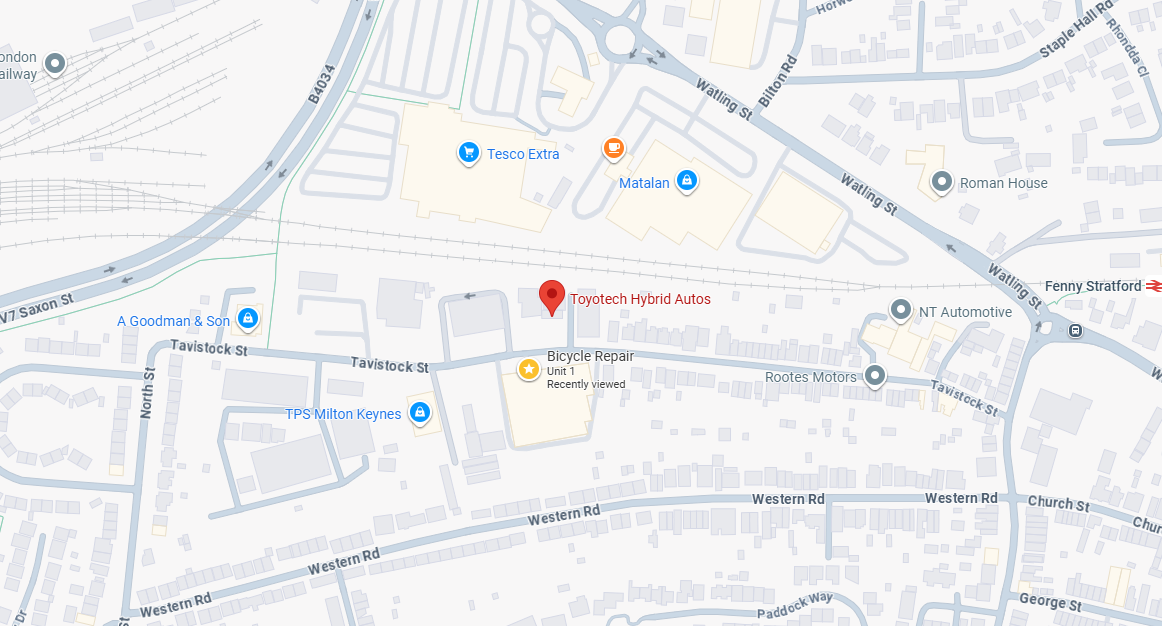
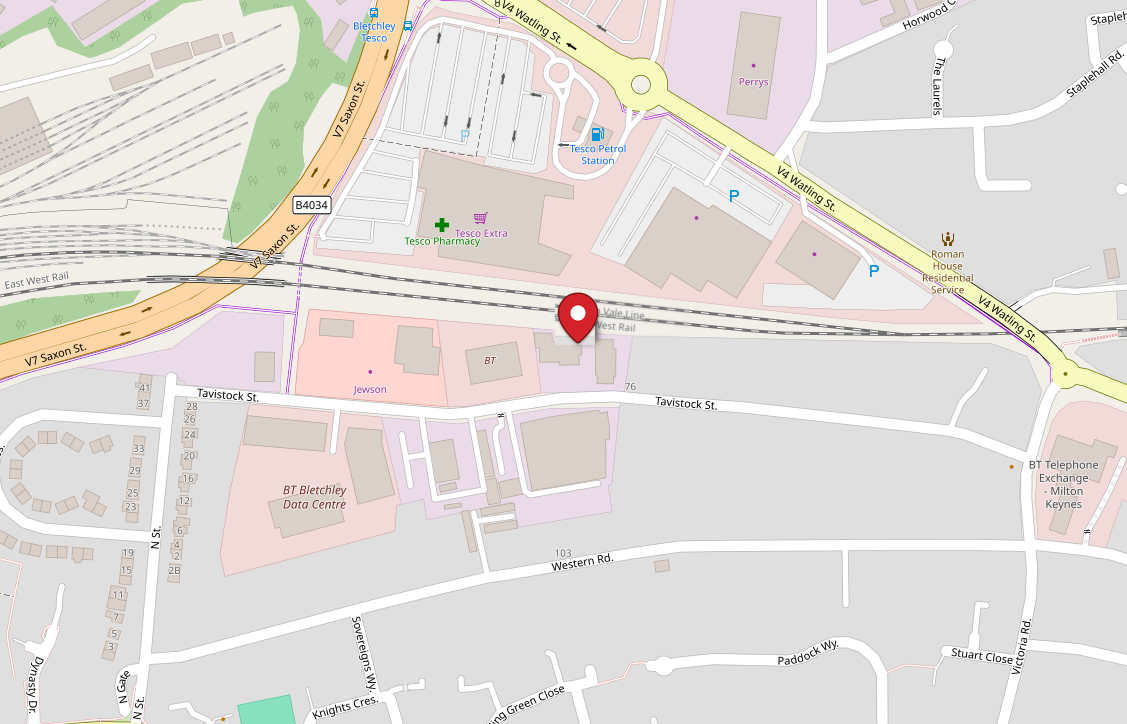
Swap map image to an OSM-sourced screenshot with a custom brand pin
Replaces the Google Maps screenshot with one sourced from OpenStreetMap
instead, closing the licensing gap flagged in the previous commit: OSM's
data licence (ODbL, CC BY-SA cartography) explicitly permits self-hosting
a screenshot with attribution, unlike Google's Maps Platform terms. Added
a linked "© OpenStreetMap contributors" caption over the image per ODbL's
attribution requirement.

The pin is custom-composited (lucide's MapPin shape, in brand red, via an
offline HTML+Playwright render) over OSM's own marker position, replacing
its default blue marker so it's visually consistent with the rest of the
site's iconography.

Claude-Session: https://claude.ai/code/session_01SqE5XToScLwNEKf7veFpij

diff --git a/CLAUDE.md b/CLAUDE.md
@@ -121,12 +121,12 @@ Parsing rules:
 
 - `src/components/MapEmbed.astro` on the Home page ("Find us" section, after reviews) and the Contact page: a **self-hosted static screenshot** (`src/assets/workshop-map.png`, via `astro:assets`), not a live embed.
   - History: started as a keyless Google Maps iframe (set Google's cookies on every load, before consent — a GDPR/PECR issue). Swapped to a MapLibre GL + OpenFreeMap live vector map to fix that (genuinely cookie-free), but tile rendering proved unreliable on the live site — confirmed blank in both Chrome and Brave, no clean root cause pinned down (style JSON loaded fine; the actual tile data silently never painted). A static image sidesteps both problems: no third-party request at all once built, so nothing to fail at runtime.
-  - **Unresolved:** the current screenshot is a Google Maps capture. Google's Maps Platform terms generally restrict caching/redistributing map imagery outside their own approved display methods (the live iframe/JS API) — self-hosting a screenshot sits in a legal grey area. Low real-world enforcement risk for a small local business, but not fully clean. An OpenStreetMap-sourced screenshot (ODbL/CC BY-SA, screenshotting explicitly permitted) would close that gap. Flagged in a code comment in `MapEmbed.astro`; needs a decision, not yet resolved.
+  - The screenshot is sourced from **OpenStreetMap**, not Google Maps — an earlier draft used a Google Maps capture, but Google's Maps Platform terms generally restrict caching/redistributing map imagery outside their own approved display methods (the live iframe/JS API), which a self-hosted screenshot isn't. OSM's licence (ODbL data, CC BY-SA cartography) explicitly permits this, with attribution — a linked "© OpenStreetMap contributors" caption sits over the image, per ODbL's attribution requirement. The pin is custom-drawn (lucide's `MapPin` shape, brand red, rendered via an offline HTML+Playwright step) composited over OSM's own marker position, not OSM's default marker.
   - The actual "get me there" job doesn't depend on the image at all — it's handled by the Google Maps / Waze buttons under the map (and beside the address on Home/Contact), which are plain outbound `<a>` links, not embeds. Clicking one navigates to Google's/Waze's own site/app (covered by their privacy policies); it doesn't load their content or set their cookies on this site.
   - Brand-styled buttons: `src/components/icons/GoogleMapsIcon.astro` (monochrome glyph, via the simple-icons dataset) and `WazeIcon.astro` (client-supplied, via SVG Repo). Colours are `--color-gmaps`/`--color-waze` in `src/styles/global.css` — both adjusted off the literal brand hex for WCAG AA: raw Waze blue (`#33ccff`) is too light for white text, so it uses navy text instead (8.22:1); raw Google blue (`#4285f4`) is borderline against white text (3.56:1, fails), so the button uses a darker shade (`#1765cc`, 5.57:1) instead.
 - Wrapped in a native `<details open>` so it can be collapsed without JS.
 - Accessibility: descriptive `alt` text on the image (WCAG 1.1.1); sized with `aspect-ratio` so it reflows on mobile (no fixed 600×400).
-- Attribution: a small "Map data © Google" caption overlaid on the image — required whenever Google Maps imagery is displayed, independent of the caching question above.
+- Attribution: a small linked "© OpenStreetMap contributors" caption overlaid on the image, pointing to osm.org/copyright — required by OSM's ODbL/CC BY-SA licence.
 - The plain-text address and Google Maps/Waze buttons sit alongside the image regardless of whether it loads, so the map is never the only way to find the workshop.
 - Note: the opening-hours CSV fetch (to Google Sheets) is the only remaining third-party request Home and Contact make; it doesn't set a cookie.
 
